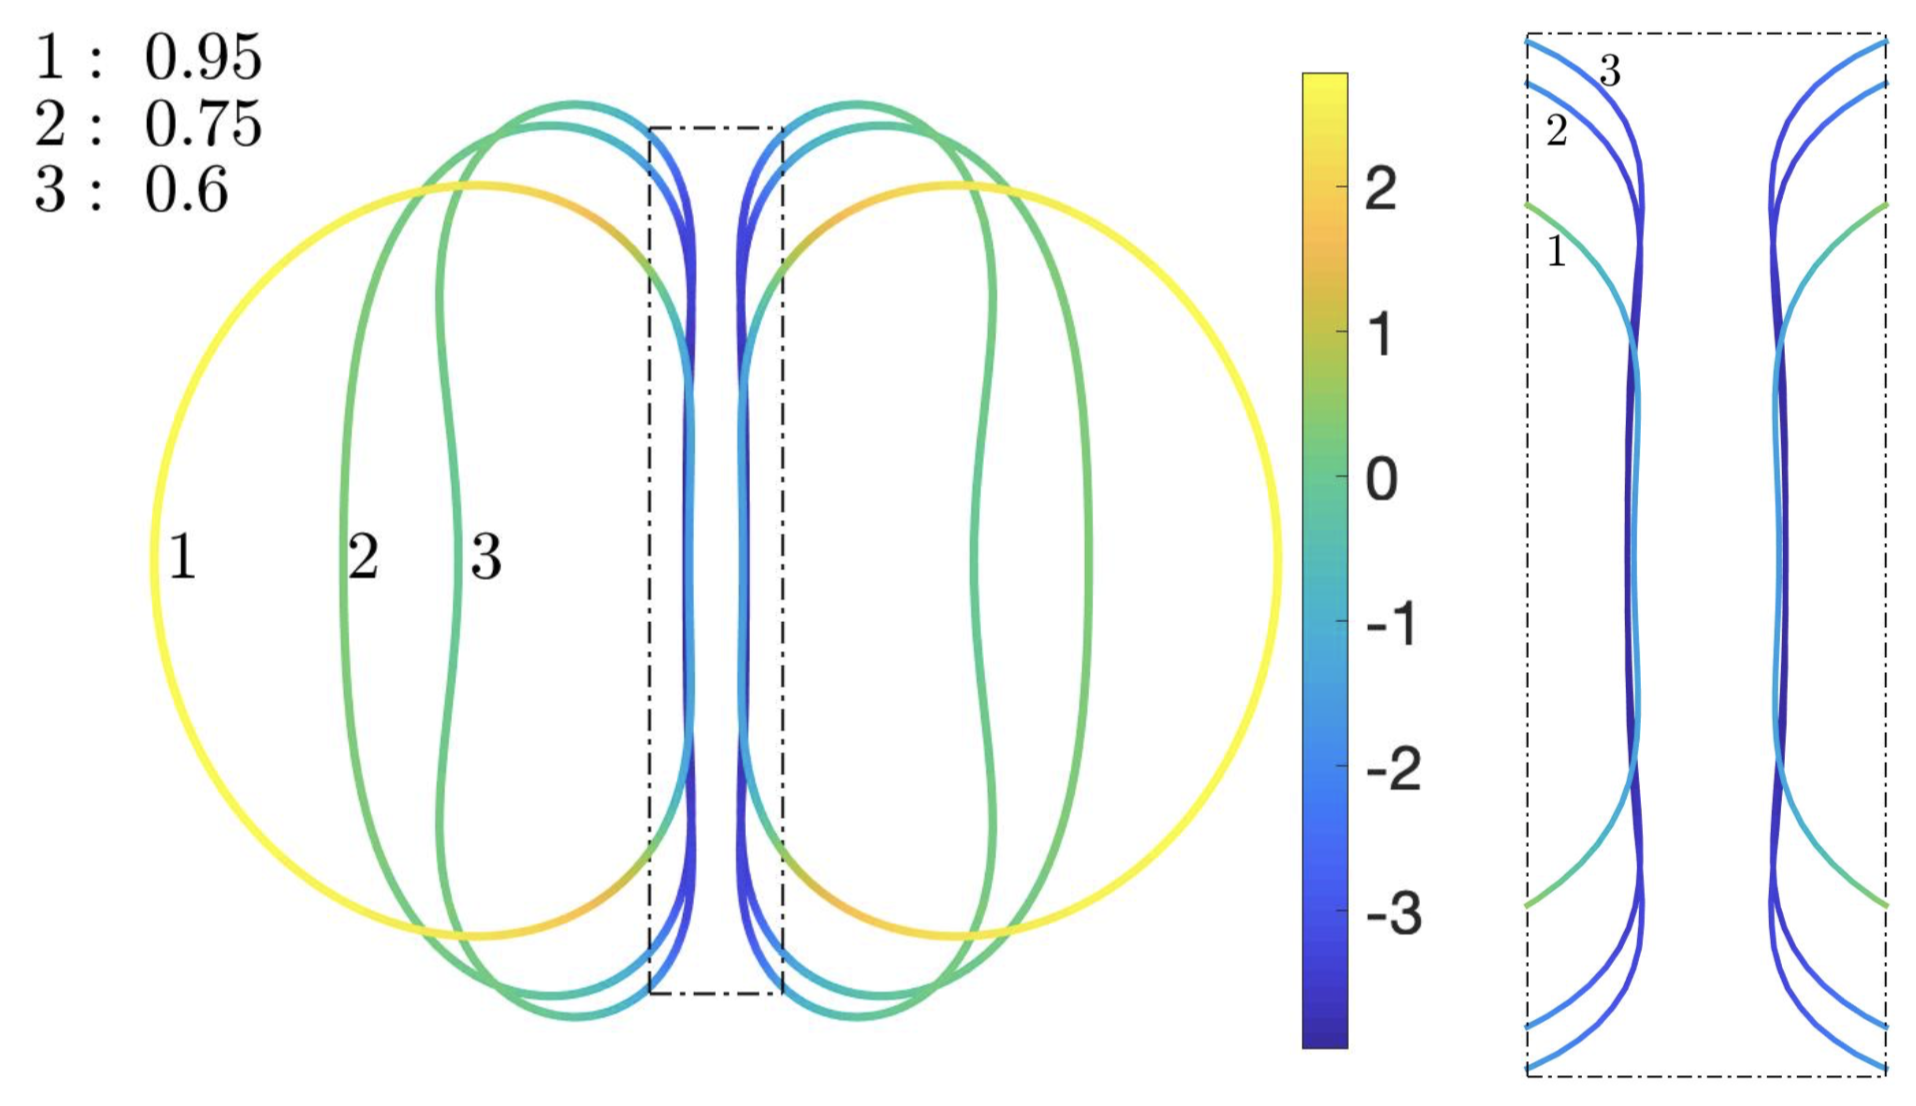
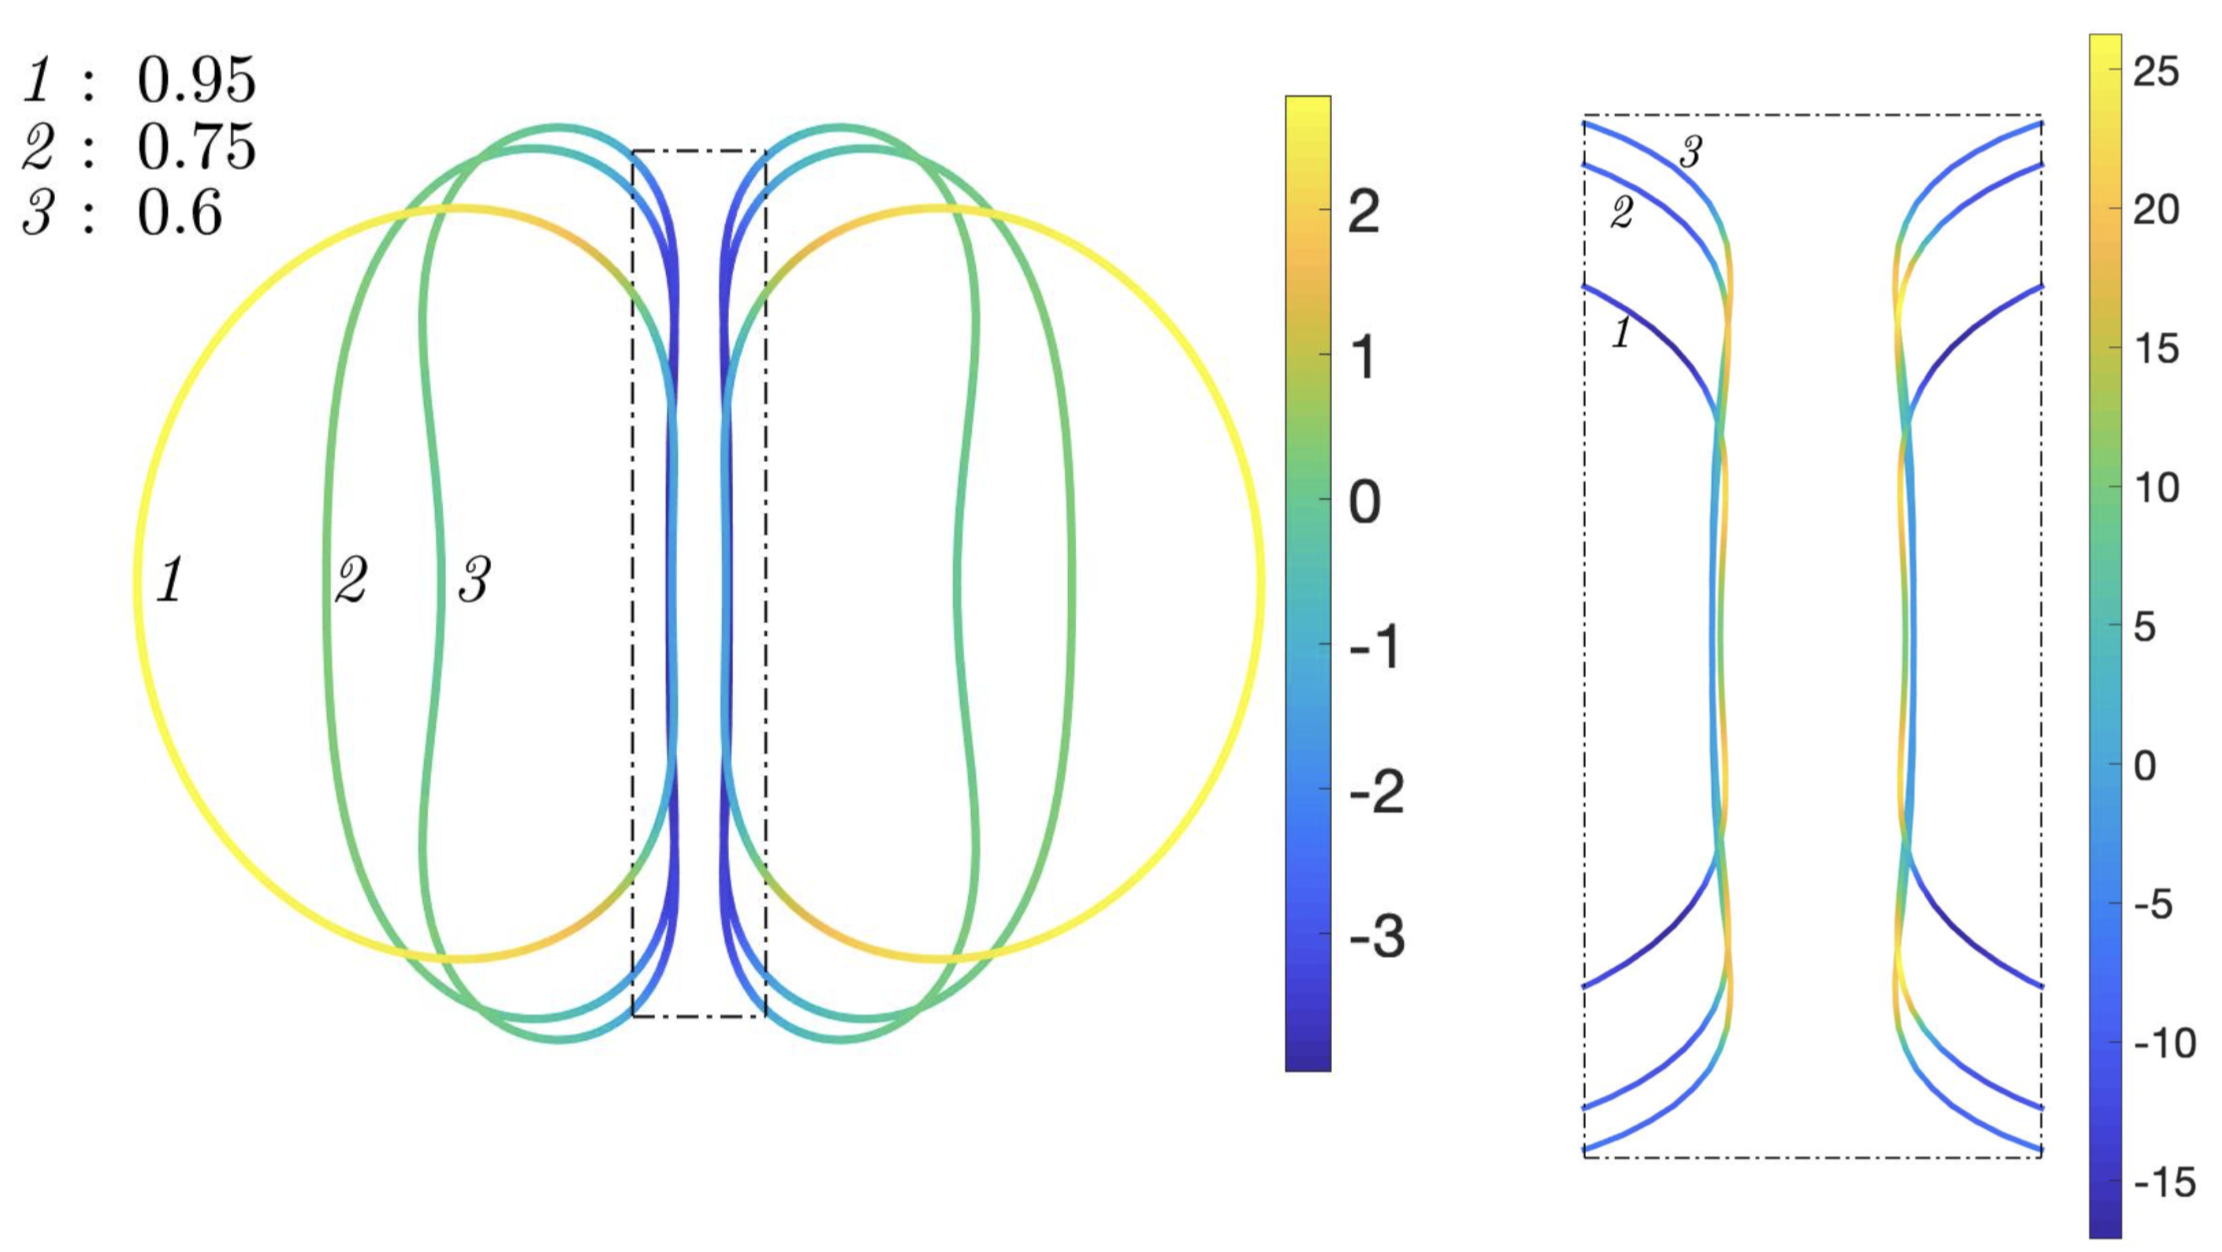
more changes from yny

Changed region(s): [[0.0, 0.0307, 1.0, 1.0]]

diff --git a/vesicle_code/docs/adhesion/adhesion.tex b/vesicle_code/docs/adhesion/adhesion.tex
@@ -688,17 +688,18 @@ A=0.95$, $0.75$, and $0.6$ with $\mathcal{H}=5$ and $\delta = 0.2$.
 \begin{figure}
 %  \includegraphics[keepaspectratio=true,scale=0.175]{figs/Dec18_vesicle_shape_vs_rA_00.jpeg}
 %  \includegraphics[keepaspectratio=true,scale=0.175]{figs/Dec18_vesicle_shape_vs_rA_01.jpeg}
-   \includegraphics[keepaspectratio=true,scale=0.5]{figs/Dec18_vesicle_shape_vs_rA_composite.png}
+   \includegraphics[keepaspectratio=true,scale=0.45]{figs/Dec18_vesicle_shape_vs_rA_composite.png}
   \caption{\label{fig:Dec18_vesicle_shape} Equilibrium configurations of
   a doublet of identical vesicles under adhesion in a quiescent flow at
   three values of $\Delta A$.  The vesicle reduced areas of $\Delta
-  A=0.95$, $0.75$, and $0.6$ are labeled.  The color coding is the
-  tension along the vesicle.  The vesicle length is fixed at $2\pi$, the
+  A=0.95$, $0.75$, and $0.6$ are labeled.  The vesicle length is fixed at $2\pi$, the
   dimensionless bending rigidity modulus is $\kappa_b=1$, the Hamaker
   constant is $\mathcal{H}=5$, and the separation distance is
-  $\delta=0.2$.  {\em Left}: The overall equilibrium shapes of two
+  $\delta=0.2$.  {\em Left}:  The color coding is the
+  tension along the vesicle.  The overall equilibrium shapes of two
   vesicles under adhesive interactions vary with the reduced area.  {\em
-  Right}: The membrane shapes in the contact region.} 
+  Right}: The membrane shapes in the contact region. The color coding is the adhesive force
+  projected along the center-of-mass vector.} 
 \end{figure}
 The equilibrium vesicle shape for $\Delta A=0.95$ is the circular cap
 with a flat contact region.  This is similar to the observed shapes of
@@ -1302,7 +1303,7 @@ BQ acknowledges support from Florida State University startup funds and
 Simons Foundation Mathematics and Physical Sciences-Collaboration Grants
 for Mathematicians 527139.  SV acknowledges support from NSF under
 grants DMS-1719834 and DMS-1454010.  YNY acknowledges support from
-NSF-DMS 1614863 and 1412789.  The work of SV and YNY was also supported
+NSF-DMS 1614863 and NSF-DMS 1412789.  Both SV and YNY were also supported
 by the Flatiron Institute, a division of Simons Foundation.
 
 \begin{appendices}
